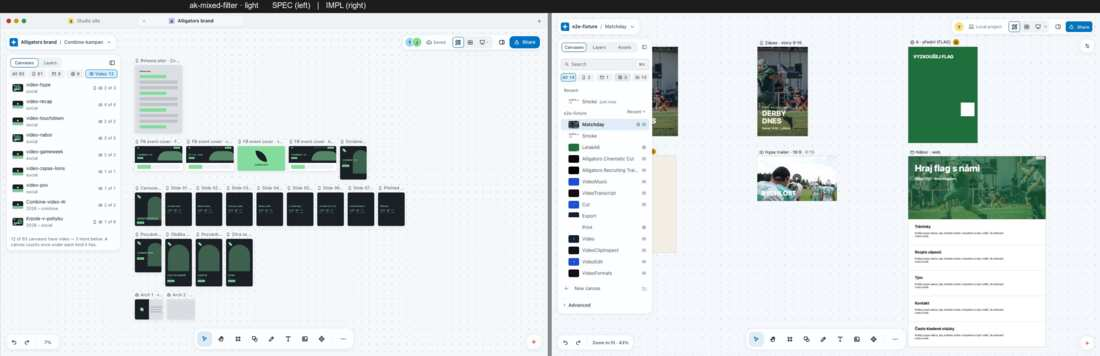
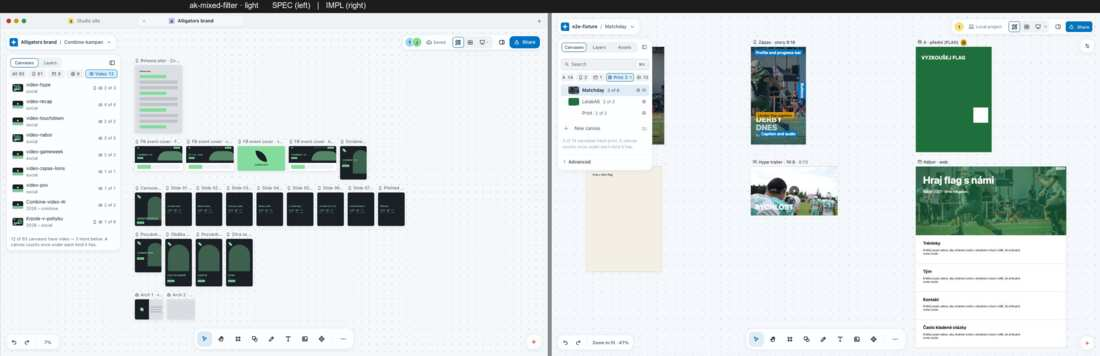
P8-C8 misc2: round-8 re-shoot (08 ak-web-widths/safe-zones/mixed-fit/mixed-filter, 11 strip/move/deeplink, 12 ia-brand-steps), INDEX, fix files

diff --git a/apps/studio/test/p8-c8-misc2-kinds.test.tsx b/apps/studio/test/p8-c8-misc2-kinds.test.tsx
@@ -133,7 +133,9 @@ describe('11 tab strip — a tab at rest keeps ~7 characters for its name', () =
 
   test('the resting padding is the board dense space-2, the × room only on the active tab', () => {
     expect(rule('      .tab')).toMatch(/padding:\s*0 var\(--space-2, 8px\)/);
-    expect(rule('      .tab[aria-selected="true"]')).toMatch(/padding:\s*0 var\(--space-2, 8px\) 0 28px/);
+    expect(rule('      .tab[aria-selected="true"]')).toMatch(
+      /padding:\s*0 var\(--space-2, 8px\) 0 28px/
+    );
     // the × takes the square's place on hover/focus instead of padding every tab
     expect(html).toMatch(/\.tab:not\(\[aria-selected="true"\]\):hover \.sq/);
   });

diff --git a/.ai/plans/notes/v2-evidence/phase8-fidelity/08-artboard-kinds/INDEX.md b/.ai/plans/notes/v2-evidence/phase8-fidelity/08-artboard-kinds/INDEX.md
@@ -229,3 +229,12 @@ Final verification shoot after stage C round 7, on the merged tip (release-built
 | ak-picker-custom (extra impl frame, no board artboard) | shot into impl only, no spec, no pair | shot into impl only, no pair |
 
 Totals: 36 id×theme re-shot (18 ids), 2 unreachable (1 id). The committed `ak-convert-light-spec-only.jpg` / `ak-convert-after-light-spec-only.jpg` are stale (both ids are pairs since D2).
+
+## Round 8 (p8-c8-misc2) — re-shot, light + dark (harness `_c8m2-harness-g3`, scenario `t08m`)
+
+| artboard id | after (round 8) |
+| --- | --- |
+| ak-web-widths | re-shot: the tallest of the three widths selected; the Height note reads "N now — the longest of the three." (`webLongestOf`, dom-selection.ts: the sibling web pages in the same section at distinct widths) |
+| ak-safe-zones | re-shot: the zone is APPLIED (the Safe zones row is a select-shaped button opening a checked menu — `insp-safe-zones` / `insp-safe-zones-instagram-reels`; the D5 harness drove a native `<select>` that no longer exists): bands + tags on the artboard, the Show on canvas row in the inspector. The menu itself is not shot (a side state: it is cut off at the card's foot) |
+| ak-mixed-fit | re-shot: Print chip on, the list names only the two print artboards under the canvas name, the dimmed line is the foot of the panel |
+| ak-mixed-filter | re-shot: the kind filter is ONE store shared by Layers and Canvases — the D5 harness pressed Print in Layers and again in Canvases, which toggled it off; the chip is cleared first now, so the Canvases panel shows the filtered list, hit counts and the foot "N of M canvases have print" |

diff --git a/.ai/plans/notes/v2-evidence/phase8-fidelity/11-projects-and-navigation/fix-c7-oboard.md b/.ai/plans/notes/v2-evidence/phase8-fidelity/11-projects-and-navigation/fix-c7-oboard.md
@@ -21,3 +21,14 @@ Checklist: critic-bar2.md MUST rows. Everything below is committed, tested, and 
 - pn-compare: the stage is still two iframes (two documents: both versions' CSS cannot share one), not the canvas with A / B artboard labels + a 660 px island; "Restore this version" wraps in a 248 px panel with a long artboard name (fixture).
 - pn-ds: "used by N projects" (no data), ⌘K "Colour / Components · section of the Design system" rows (13's rows, needs a converted system in the harness).
 - pn-history / pn-compare version titles are machine change lines; the keys sheet is the full 92-key one (06 owns).
+
+## Round 8 (p8-c8-misc2) — done
+
+- **pn-tab-b20 / pn-relaunch-strip** — `apps/desktop/src/strip.html`: a resting tab's padding is the board's dense space-2 (was 24 px each side, which left 1-4 characters of name beside a state mark); the × replaces the square on hover/focus; the active tab keeps its × room on the left only. Re-shot (strip page) light + dark: ~8 characters.
+- **pn-move** — harness only: the drag state is shot (HTML5 events dispatched on one DataTransfer, shot before the spring-load): "Move here" on the folder, the dragged row dimmed/dashed. The native drag ghost is still not drawable.
+- **pn-deeplink** — not a product bug: the D5 light shot was taken while the centring pan ran; ring and artboard are aligned once the canvas is up. Re-shot after the pan.
+
+## Open
+
+- pn-ds / pn-ds-search "used by N projects" — board deviation, no data (decided).
+- The active tab is not wider than its neighbours (board: shows the full name) — polish.

diff --git a/.ai/plans/notes/v2-evidence/phase8-fidelity/08-artboard-kinds/fix-c8-misc2.md b/.ai/plans/notes/v2-evidence/phase8-fidelity/08-artboard-kinds/fix-c8-misc2.md
@@ -1,0 +1,13 @@
+# 08 Artboard Kinds — round 8 (p8-c8-misc2)
+
+## Done
+
+- **ak-web-widths** — the Height note on the tallest of several widths of one page: "2185 now — the longest of the three." `webLongestOf` (dom-selection.ts) reads, at selection time, the web pages of the same section at distinct widths and stamps `data-dc-web-longest`; `artboardFacts.longestOf` → `webHeightNote(h, n)`. Alone / fixed / same-width boards keep "N now — grows as you add."
+- **ak-mixed-fit** — the Layers list names only the artboards of the pressed kind (the canvas still dims the rest), the tree of an artboard outside the kind waits; "N other artboards are dimmed. Show all" is the FOOT of the panel (`LayersKindFoot`, `.ly2` fills the body, `.kf-foot` margin-top auto).
+- **ak-safe-zones / ak-mixed-filter** — harness (the Safe zones control is a select-shaped button + checked menu, not a native `<select>`; the kind filter is one shared store, so pressing Print twice toggled it off). Both re-shot with the state on screen.
+- The Safe zones menu was 252 px wide inside a ~246 px card and cut off on the left: now 224 px.
+
+## Open
+
+- ak-advanced: Grid tracks · Edit tracks… / Layout · Convert to absolute… stay drawn disabled (decided, no op).
+- The Safe zones menu is cut off at the card's foot when the card has little under the row (its footnote and the lower platforms hide); a side state.

diff --git a/.ai/plans/notes/v2-evidence/phase8-fidelity/11-projects-and-navigation/INDEX.md b/.ai/plans/notes/v2-evidence/phase8-fidelity/11-projects-and-navigation/INDEX.md
@@ -146,3 +146,11 @@ Every reachable id re-shot on the merged tip `feat/maude-v2` @ `e37e7d82a` (rele
 | pn-tab-menu, pn-windows | unreachable | unreachable | native NSMenu / multi-window, not drawable in a browser |
 | pn-accounts | unreachable | unreachable | the account card is not built (S1.21-accounts GAP) |
 | pn-cant-open | unreachable | unreachable | needs a moved project root / removed access in the Rust shell + hub |
+
+## Round 8 (p8-c8-misc2) — re-shot, light + dark (harness `_c8m2-harness-g4`, `chain-c8m2.sh`)
+
+| artboard id | after (round 8) |
+| --- | --- |
+| pn-tab-b, pn-tab-b20, pn-switch-ai-strip, pn-relaunch-strip | re-shot from `strip.html`: a tab at rest keeps the board's dense padding (space-2), so the name gets ~8 characters beside the state mark; the × takes the square's place on hover, the active tab keeps its × room on the left only |
+| pn-move | re-shot: the HTML5 drag events are dispatched by hand on one DataTransfer (Chrome's drag interception never delivered dragover to the panel): "Move here" on the folder, the dragged row dimmed and dashed, shot before the 600 ms spring-load opens the folder |
+| pn-deeplink | re-shot after the canvas is up and the centring pan settled (D5 light caught the selection ring mid-pan; ring and artboard are aligned — not a product bug) |

diff --git a/.ai/plans/notes/v2-evidence/phase8-fidelity/12-import-and-assets/fix-c7-oboard.md b/.ai/plans/notes/v2-evidence/phase8-fidelity/12-import-and-assets/fix-c7-oboard.md
@@ -31,3 +31,11 @@ Checklist: critic-bar2.md MUST rows. Branch p8-c7-g1112.
 - ia-photo-steps — only the crop step is a real state; "Remove background" in progress / done and the Apply-to-every-use sheet are the other three columns of the board (reachable but not shot: need the model).
 - ia-gen-ask stays inline (v2-p8-c9-ask-stays-inline).
 - ia-more-ways, ia-gen-placed, ia-figma-arrived, ia-figjam, ia-brand, ia-missing, ia-edges — unreachable here (fixtures / providers / peers).
+
+## Round 8 (p8-c8-misc2) — done
+
+- **ia-brand-steps** — `brand-sheet.jsx`: the chosen logo draws itself (an `img` over a blob URL, revoked on change) on the checker tile in the drop well, not a ✓. Harness: a logo is chosen for the opener pair; the website read is held by a route stub so "Reading…" (two rows, progress bar, "Usually under 10 seconds…") is caught (-2), then released to the failed-site column (-3).
+
+## Open
+
+- ia-gen-ask island (v2-p8-c9-ask-stays-inline), ia-more-ways / ia-brand / ia-missing / ia-edges — unreachable or decided.

diff --git a/.ai/plans/notes/v2-evidence/phase8-fidelity/12-import-and-assets/INDEX.md b/.ai/plans/notes/v2-evidence/phase8-fidelity/12-import-and-assets/INDEX.md
@@ -128,3 +128,9 @@ Fixture note: the photo fixtures (18 files in `assets/`, the Spread canvas) are 
 | ia-brand | unreachable | unreachable | needs a reachable website to read |
 | ia-missing | unreachable | unreachable | needs a synced project with a peer that holds the file |
 | ia-edges | unreachable | unreachable | nine separate conditions (network, hub, provider keys, file types) |
+
+## Round 8 (p8-c8-misc2) — re-shot, light + dark (harness `_c8m2-harness-g4`, `s12g`)
+
+| artboard id | after (round 8) |
+| --- | --- |
+| ia-brand-steps (= frame -1), -1, -2, -3 | re-shot: the chosen logo draws itself on the checker tile in the drop well (`bi-drop-ic--logo`); the website read is held by a route stub, so the Reading column (two Reading… rows, progress bar, "Usually under 10 seconds…") is on screen (-2), then answers "didn't answer" for the Edge column (-3). The opener pair uses the logo-chosen frame, which is what the board's first column draws |
